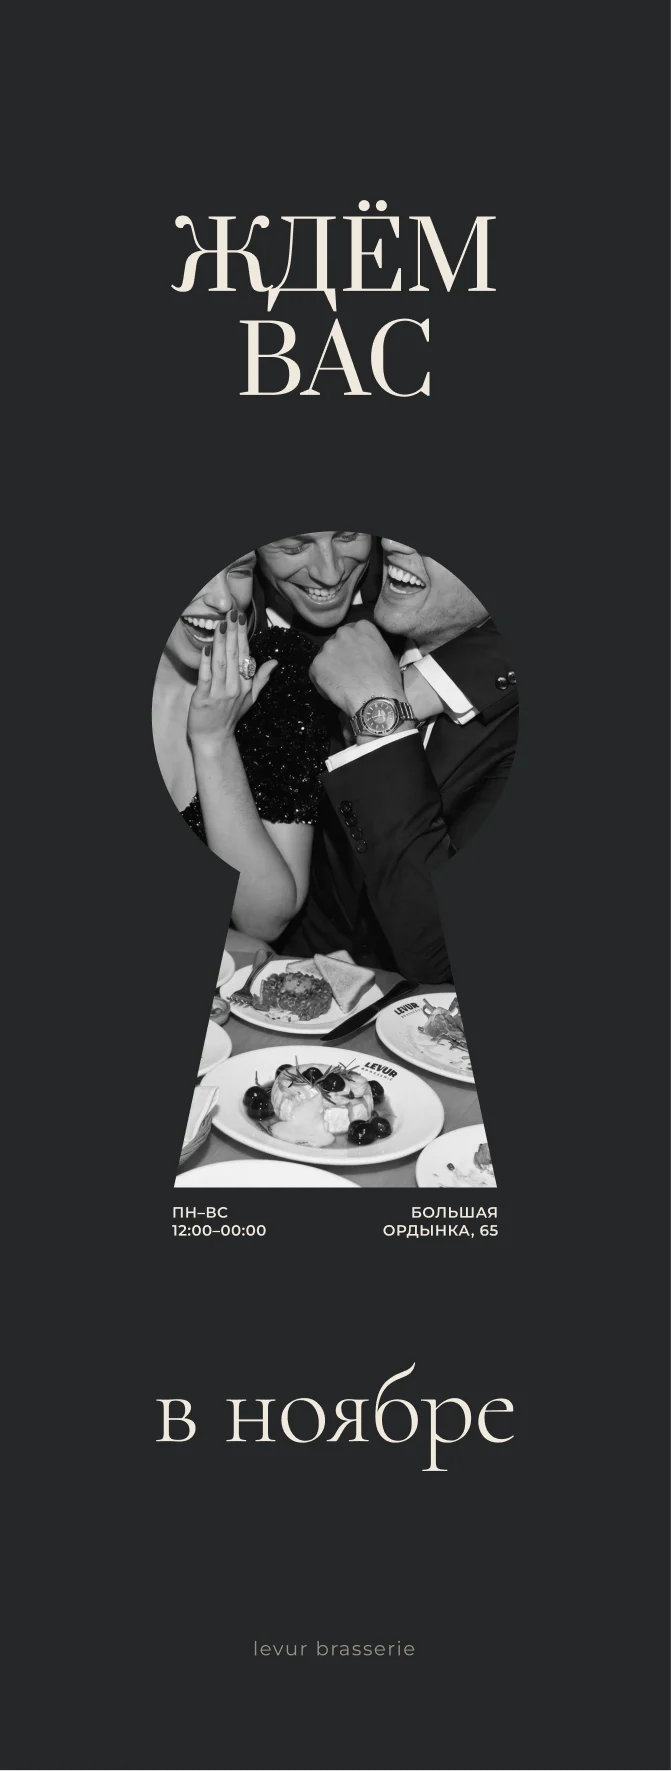
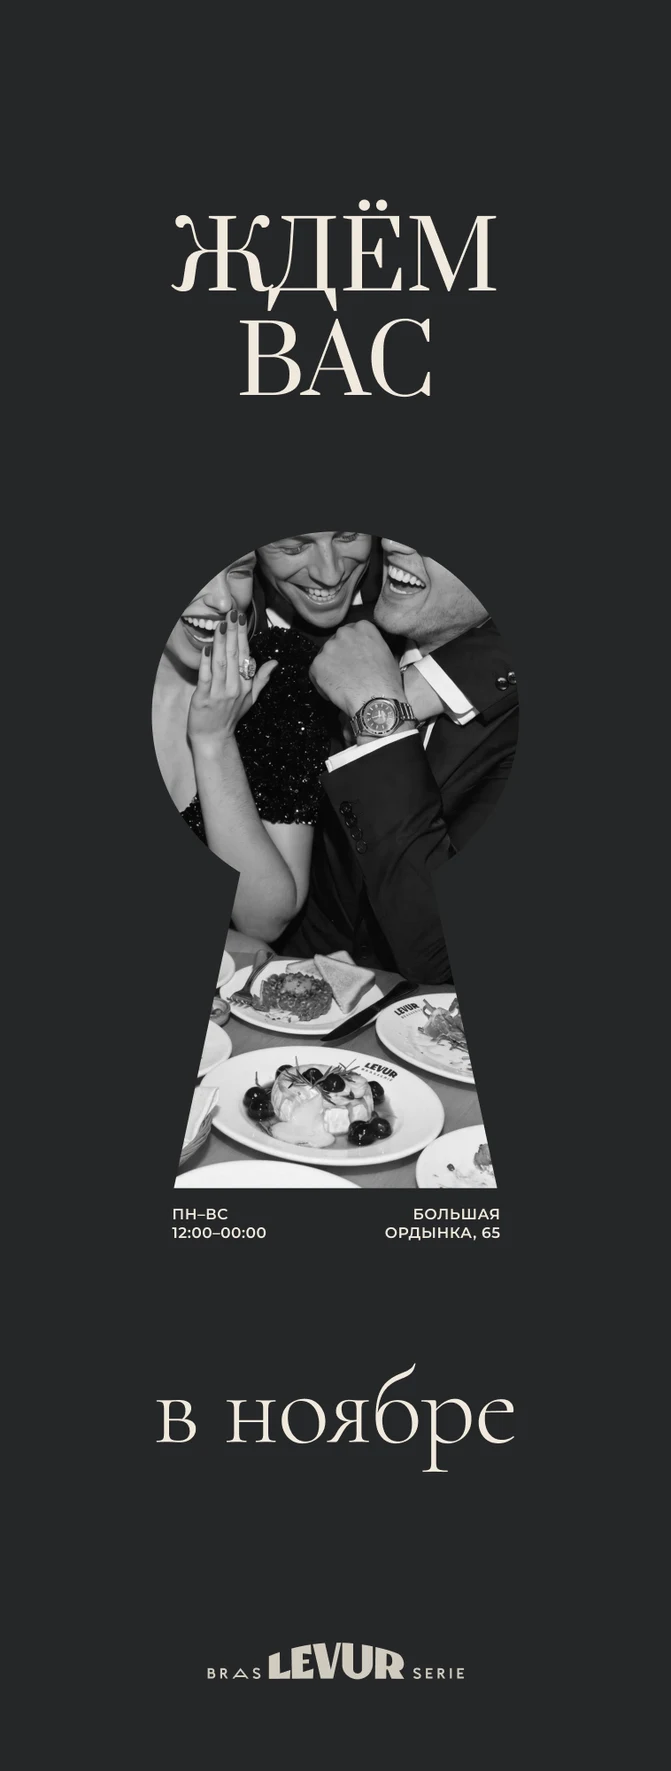
Концепция 2, вариант 2: цвета фона для антиквы

diff --git a/index.html b/index.html
@@ -58,6 +58,7 @@
   .swb{width:28px;height:28px;padding:3px;border:0;border-radius:50%;background:transparent;box-shadow:inset 0 0 0 1px var(--line);cursor:pointer}
   .swb span{display:block;width:100%;height:100%;border-radius:50%}
   .swb[aria-pressed="true"]{box-shadow:inset 0 0 0 2px var(--ink)}
+  .swatches[hidden]{display:none}
   .cname{color:var(--mute);font-size:12px;margin-left:4px;min-width:62px}
   .opts{display:inline-flex;flex-wrap:wrap;padding:3px;gap:3px;border-radius:99px;background:#fff;box-shadow:inset 0 0 0 1px var(--line)}
   .opts button{font:400 13px/1 "Inter Tight",system-ui,sans-serif;color:var(--ink);padding:8px 12px;border:0;border-radius:99px;background:transparent;cursor:pointer}
@@ -177,7 +178,7 @@
           <div class="plate">
             <div class="ly" data-depth="0.35">
               <img class="leaf" src="door-3d/door.webp" alt="">
-              <img class="sticker" id="k2" src="door-3d/sticker-poster-serif-dark.webp?v=20261028e" alt="Постер «Ждём вас» с фото в форме замочной скважины на стекле двери LEVUR">
+              <img class="sticker" id="k2" src="door-3d/sticker-poster-serif-dark.webp?v=20261028h" alt="Постер «Ждём вас» с фото в форме замочной скважины на стекле двери LEVUR">
               <div class="sheen"></div>
             </div>
             <div class="ly" data-depth="1">
@@ -189,7 +190,7 @@
           </div>
           <div class="shade"></div>
         </div></div>
-        <figcaption>Вариант 2<span class="opts" role="group" aria-label="Вариант постера"><button type="button" data-img="k2" data-src="door-3d/sticker-poster-serif-dark.webp?v=20261028e" aria-pressed="true">Антиква, чёрный</button><button type="button" data-img="k2" data-src="door-3d/sticker-poster-grotesk.webp?v=20261028g" aria-pressed="false">Гротеск</button><button type="button" data-img="k2" data-src="door-3d/sticker-poster-serif.webp?v=20261028e" aria-pressed="false">Антиква</button></span></figcaption>
+        <figcaption>Вариант 2<span class="opts" role="group" aria-label="Вариант постера"><button type="button" id="k2dark" data-img="k2" data-src="door-3d/sticker-poster-serif-dark.webp?v=20261028h" aria-pressed="true">Антиква, чёрный</button><button type="button" data-img="k2" data-src="door-3d/sticker-poster-grotesk.webp?v=20261028g" aria-pressed="false">Гротеск</button><button type="button" data-img="k2" data-src="door-3d/sticker-poster-serif.webp?v=20261028e" aria-pressed="false">Антиква</button></span><span class="swatches" id="k2sw" role="group" aria-label="Цвет фона"><button type="button" class="swb" data-k2="black" data-src="door-3d/sticker-poster-serif-dark.webp?v=20261028h" aria-pressed="true" title="Чёрный" aria-label="Чёрный"><span style="background:#262728"></span></button><button type="button" class="swb" data-k2="green" data-src="door-3d/sticker-poster-serif-dark-green.webp?v=20261028h" aria-pressed="false" title="Оливковый" aria-label="Оливковый"><span style="background:#4d5a32"></span></button><button type="button" class="swb" data-k2="wine" data-src="door-3d/sticker-poster-serif-dark-wine.webp?v=20261028h" aria-pressed="false" title="Винный" aria-label="Винный"><span style="background:#7a2e36"></span></button><span class="cname">Чёрный</span></span></figcaption>
       </figure>
     </div>
   </section>
@@ -295,7 +296,7 @@
 
   // plate colour per variant, LEVUR logo on variant 2
   const stickers = [...document.querySelectorAll('.sticker')];
-  const colorBtns = [...document.querySelectorAll('.swb')], logoBtns = [...document.querySelectorAll('[data-logo]')];
+  const colorBtns = [...document.querySelectorAll('.swb[data-base]')], logoBtns = [...document.querySelectorAll('[data-logo]')];
   const logo = { orsa: false };
   const color = { covetour: 'black', orsa: 'black' };
   const src = (b, c, l) => `door-3d/sticker-${b}${l ? '-logo' : ''}${c === 'black' ? '' : '-' + c}.webp?v=20261028b`;
@@ -315,6 +316,20 @@
       b.parentNode.querySelectorAll('button').forEach(x => x.setAttribute('aria-pressed', String(x === b)));
     });
   }
+  // Концепция 2, вариант 2: colour of the dark antiqua poster; swatches show only while it is selected
+  const k2dark = document.getElementById('k2dark'), k2sw = document.getElementById('k2sw');
+  const k2names = { black: 'чёрный', green: 'оливковый', wine: 'винный' };
+  for (const b of k2sw.querySelectorAll('button')) {
+    new Image().src = b.dataset.src;
+    b.addEventListener('click', () => {
+      k2dark.dataset.src = b.dataset.src;
+      k2dark.textContent = 'Антиква, ' + k2names[b.dataset.k2];
+      k2sw.querySelectorAll('button').forEach(x => x.setAttribute('aria-pressed', String(x === b)));
+      k2sw.querySelector('.cname').textContent = b.title;
+      k2dark.click();
+    });
+  }
+  k2dark.parentNode.querySelectorAll('button').forEach(b => b.addEventListener('click', () => { k2sw.hidden = b !== k2dark; }));
   // warm the cache so switching does not flash
   // tap a door to open it full screen; tap again, × or Esc to close
   const closeBtn = document.getElementById('fsClose');
